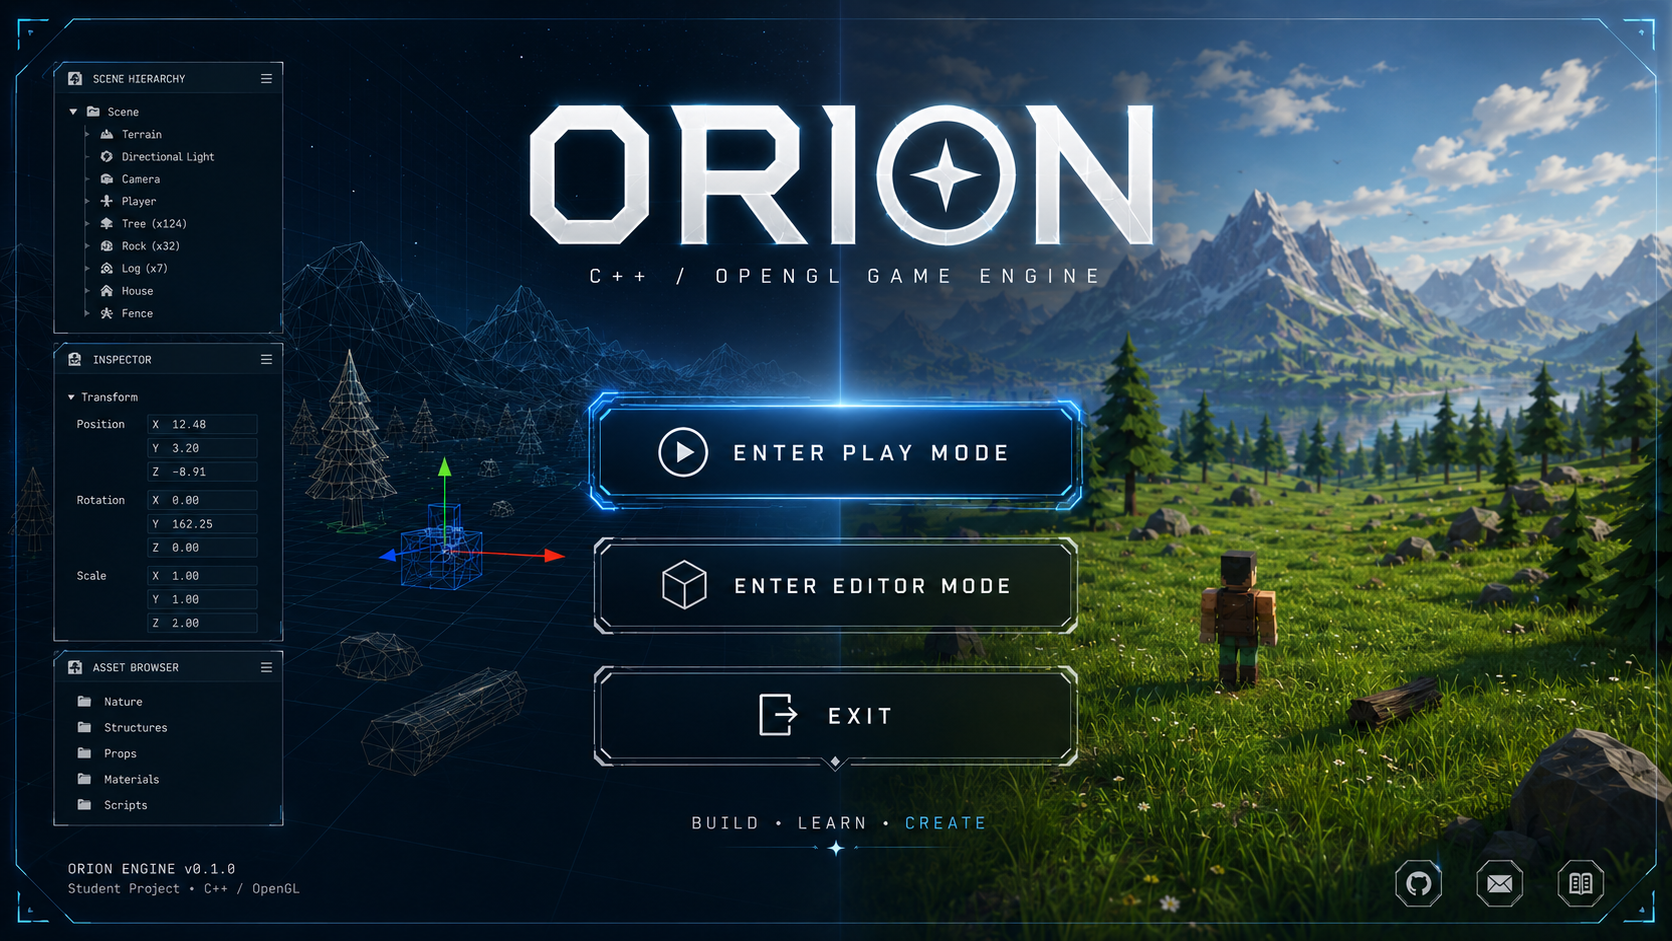
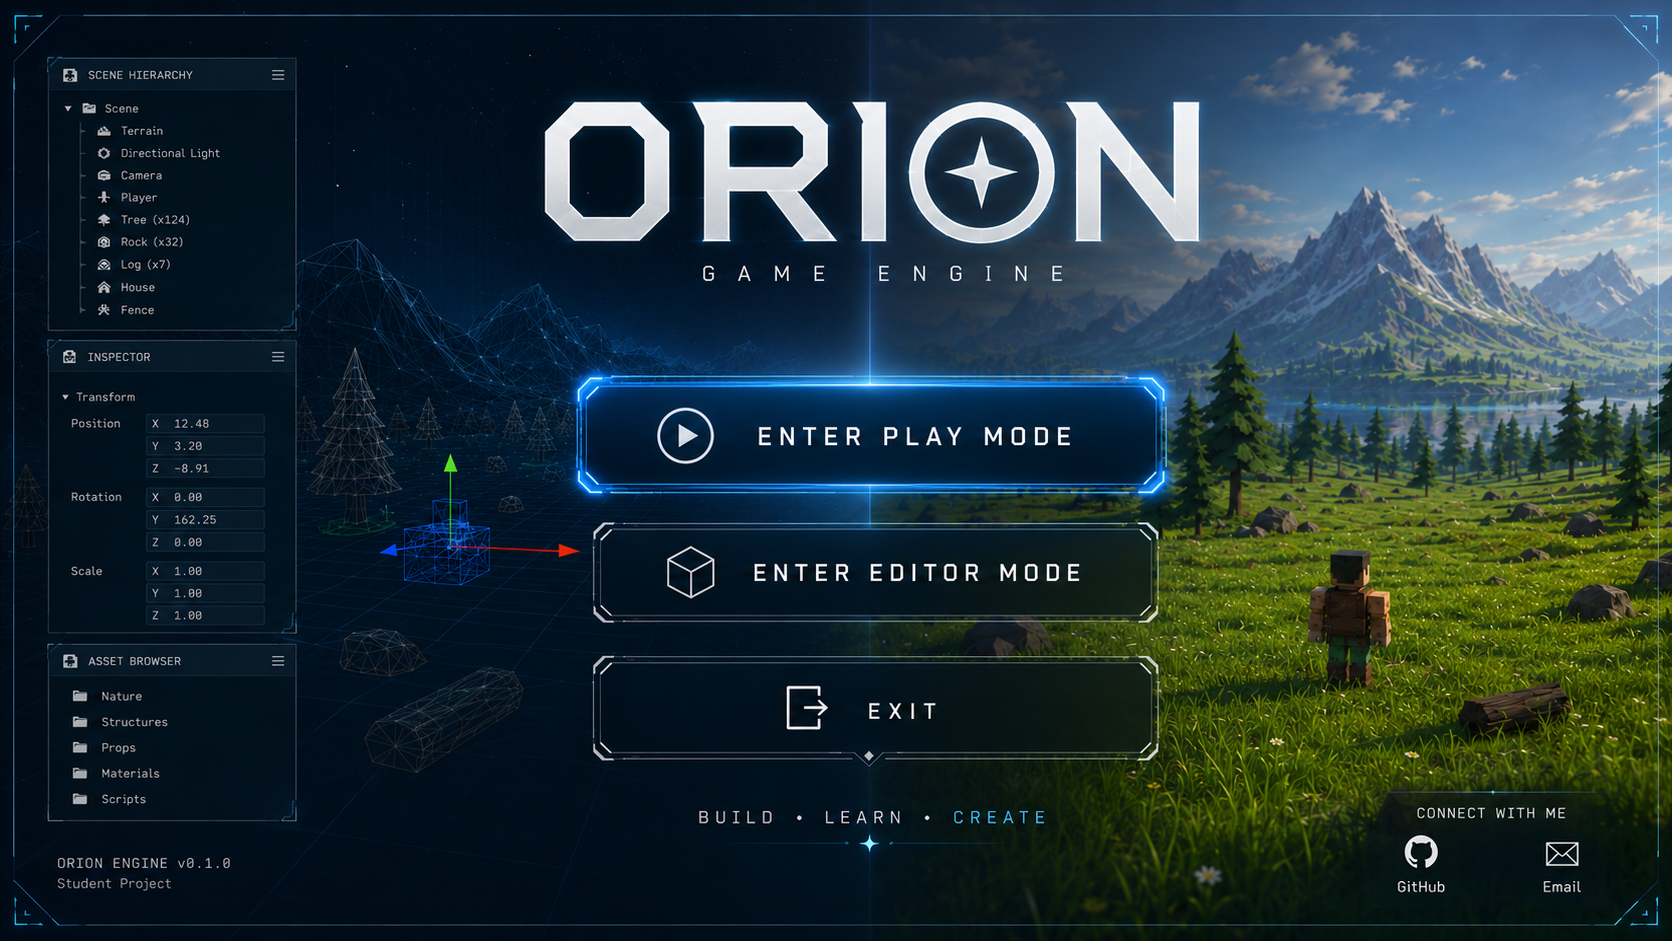
Improve main menu button hover alignment

diff --git a/ThesisRenderer/main.cpp b/ThesisRenderer/main.cpp
@@ -315,7 +315,11 @@ float musicNpcSpeed =
 
 float musicNpcCatchRadius =
     2.4f;
+int mainMenuHoveredButton =
+-1;
 
+int previousMainMenuHoveredButton =
+-1;
 float musicNpcTerrainOffset =
     0.15f;
 
@@ -2257,49 +2261,16 @@ bool DrawMainMenuButton(
             minPoint,
             maxPoint,
             hoverColor,
-            8.0f
+            6.0f
         );
 
         drawList->AddRect(
             minPoint,
             maxPoint,
             borderColor,
-            8.0f,
+            6.0f,
             0,
-            3.0f
-        );
-
-        float fontSize =
-            ImGui::GetFontSize() * 1.20f;
-
-        ImVec2 textSize =
-            ImGui::CalcTextSize(
-                label
-            );
-
-        textSize.x *=
-            1.20f;
-
-        textSize.y *=
-            1.20f;
-
-        ImVec2 textPosition =
-            ImVec2(
-                position.x + size.x * 0.50f - textSize.x * 0.50f,
-                position.y + size.y * 0.50f - textSize.y * 0.50f
-            );
-
-        drawList->AddText(
-            nullptr,
-            fontSize,
-            textPosition,
-            IM_COL32(
-                255,
-                255,
-                255,
-                255
-            ),
-            label
+            2.0f
         );
     }
 
@@ -2311,7 +2282,8 @@ MainMenuAction DrawMainMenuScreen(
 {
     ImGuiIO& io =
         ImGui::GetIO();
-
+    mainMenuHoveredButton =
+        -1;
     ImGui::SetNextWindowPos(
         ImVec2(
             0.0f,
@@ -2379,30 +2351,30 @@ MainMenuAction DrawMainMenuScreen(
     }
 
     float buttonWidth =
-        io.DisplaySize.x * 0.275f;
+        io.DisplaySize.x * 0.320f;
 
     float buttonHeight =
-        io.DisplaySize.y * 0.092f;
+        io.DisplaySize.y * 0.105f;
 
     float buttonX =
-        io.DisplaySize.x * 0.362f;
+        io.DisplaySize.x * 0.360f;
 
     ImVec2 playPosition =
         ImVec2(
             buttonX,
-            io.DisplaySize.y * 0.405f
+            io.DisplaySize.y * 0.410f
         );
 
     ImVec2 editorPosition =
         ImVec2(
             buttonX,
-            io.DisplaySize.y * 0.532f
+            io.DisplaySize.y * 0.565f
         );
 
     ImVec2 exitPosition =
         ImVec2(
             buttonX,
-            io.DisplaySize.y * 0.664f
+            io.DisplaySize.y * 0.700f
         );
 
     ImVec2 buttonSize =
@@ -2413,18 +2385,18 @@ MainMenuAction DrawMainMenuScreen(
 
     ImU32 hoverFill =
         IM_COL32(
-            40,
-            155,
+            30,
+            150,
             255,
-            70
+            18
         );
 
     ImU32 hoverBorder =
         IM_COL32(
-            130,
+            120,
             230,
             255,
-            240
+            150
         );
 
     MainMenuAction action =
@@ -2444,7 +2416,11 @@ MainMenuAction DrawMainMenuScreen(
         action =
             MainMenuAction::Play;
     }
-
+    if (ImGui::IsItemHovered())
+    {
+        mainMenuHoveredButton =
+            0;
+    }
     if (
         DrawMainMenuButton(
             "MainMenu_Editor",
@@ -2459,7 +2435,11 @@ MainMenuAction DrawMainMenuScreen(
         action =
             MainMenuAction::Editor;
     }
-
+    if (ImGui::IsItemHovered())
+    {
+        mainMenuHoveredButton =
+            0;
+    }
     if (
         DrawMainMenuButton(
             "MainMenu_Exit",
@@ -2473,6 +2453,11 @@ MainMenuAction DrawMainMenuScreen(
     {
         action =
             MainMenuAction::Exit;
+    }
+    if (ImGui::IsItemHovered())
+    {
+        mainMenuHoveredButton =
+            0;
     }
     ImGui::End();
 
@@ -7766,6 +7751,11 @@ int main()
         true
     );
     audioSystem.LoadSound(
+        "menu_hover",
+        "Assets/Audio/menu_hover.wav",
+        false
+    );
+    audioSystem.LoadSound(
         "music_rescue",
         "Assets/Audio/music_rescue.wav",
         true
@@ -7849,7 +7839,19 @@ int main()
                 DrawMainMenuScreen(
                     mainMenuBackgroundTexture
                 );
+            if (
+                mainMenuHoveredButton != -1 &&
+                mainMenuHoveredButton != previousMainMenuHoveredButton
+                )
+            {
+                audioSystem.PlayFromStart(
+                    "menu_hover",
+                    0.35f
+                );
+            }
 
+            previousMainMenuHoveredButton =
+                mainMenuHoveredButton;
             if (menuAction == MainMenuAction::Play)
             {
                 showMainMenu =
